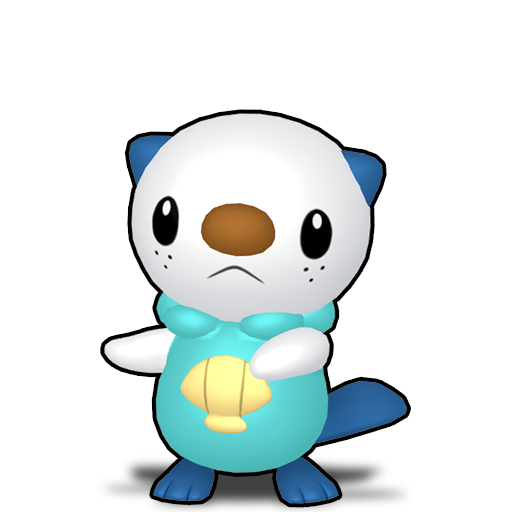
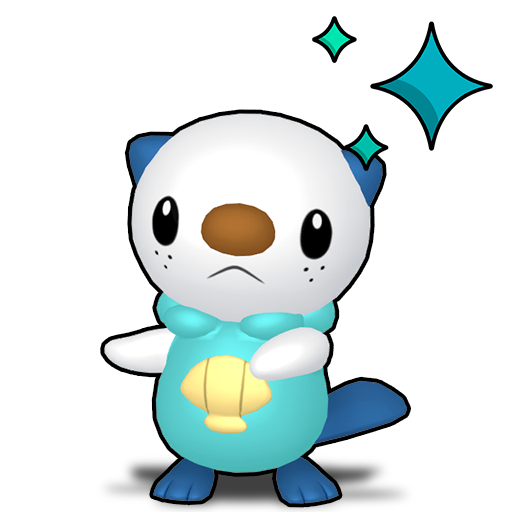
New Shiny Released
Foldername not needed yet, reminder to the next event

Changed region(s): [[0.7188, 0.0312, 0.9688, 0.2812], [0.6562, 0.25, 0.7812, 0.3438], [0.5938, 0.0312, 0.7188, 0.125]]

diff --git a/Pokemon/INFO.md b/Pokemon/INFO.md
@@ -1,1 +1,1 @@
-Update by foldernames
+The foldername will be changed everytime a new Shiny arrives the game.
